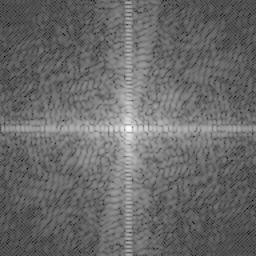
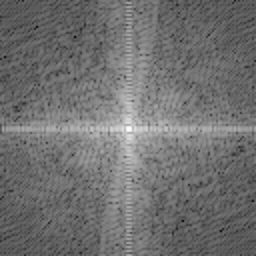
CHG: Fixing part3 padding.

diff --git a/hw2/part3.m b/hw2/part3.m
@@ -13,5 +13,5 @@ for row=1:4
     show_and_save(amp, ['output\part3_amp_' num2str(row) '.png'], 1);
     show_and_save(phase, ['output\part3_phase_' num2str(row) '.png'], 1);
     show_and_save(image, ['output\part3_image_' num2str(row) '.png'], 1);
-    image = padarray(image, [64 64], 0, 'both');
+    image = padarray(image, [64 64], 0, 'post');
 end
